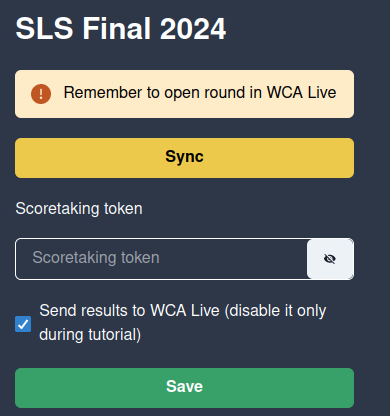
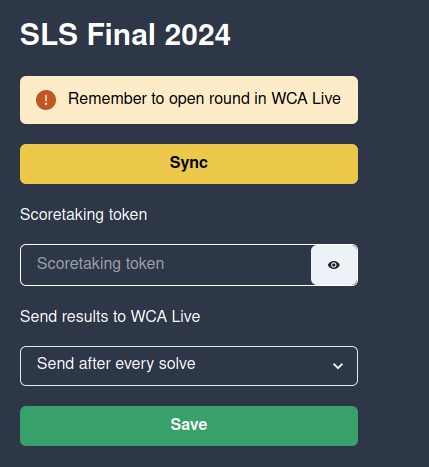
feat: update importing competition notes

Changed region(s): [[0.0308, 0.1562, 0.9231, 0.6875], [0.0308, 0.7188, 0.9231, 1.0], [0.0308, 0.0312, 0.5846, 0.125]]

diff --git a/docs/basic-knowledge/importing-competition.md b/docs/basic-knowledge/importing-competition.md
@@ -20,5 +20,7 @@ Just click the green import button and you will be redirected to competition set
 
 You will need a scoretaking token that can be taken from WCA Live. Go to the [account](https://live.worldcubeassociation.org/account) and generate one. This token is valid for 7 days and specific to the selected competition. 
 
+Also, you can set how often you want to send results to WCA Live. By default, every attempt is sent immediately after scanning cards. But you can turn it off completely (for testing purposes) or send results every 5 minutes if internet connection in the venue is not stable.
+
 Paste the token to the input field and click the save button. 
 
